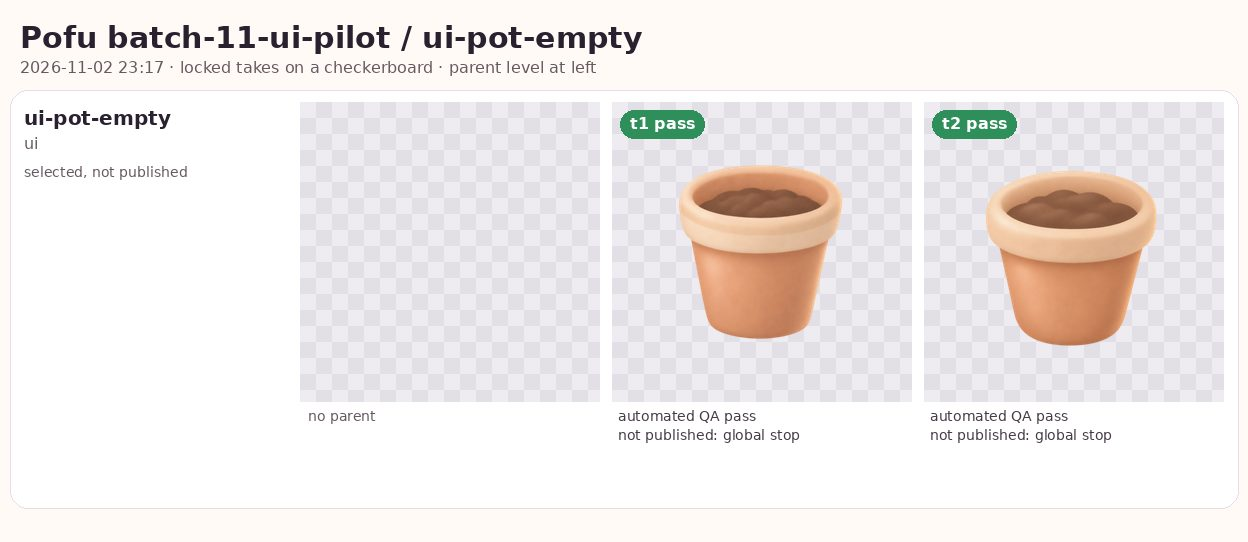
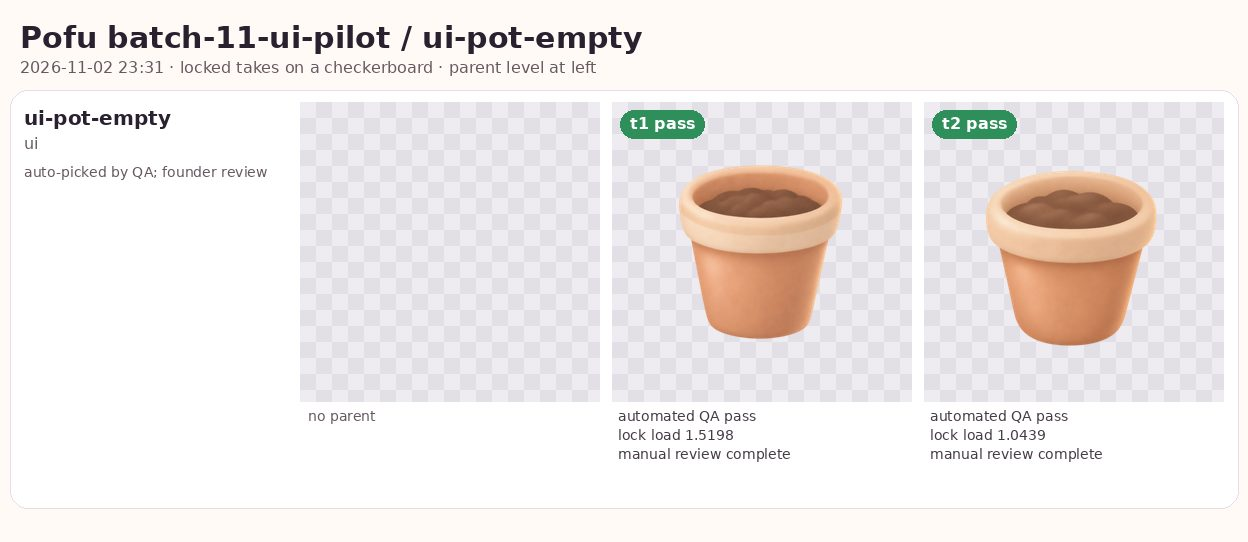
design(art): publish retained ui-pot-empty selection
Generated-With: OpenAI Codex

Changed region(s): [[0.75, 0.797, 0.9062, 0.8561], [0.5, 0.797, 0.6562, 0.8561], [0.0, 0.2952, 0.2188, 0.3247]]

diff --git a/design/art/ui/ui-pot-empty/provenance.md b/design/art/ui/ui-pot-empty/provenance.md
@@ -1,0 +1,71 @@
+# ui__pot-empty
+
+- **Approved:** 2026-11-02T23:30:46+00:00 from batch `batch-11-ui-pilot`, job `ui-pot-empty`, take t2
+  of 2 considered.
+- **Generating account:** Founder's uncle's ChatGPT plan, used by the founder with permission
+  (chatgpt-plan).
+- **Tool:** codex-cloud;
+  generated 2026-11-02T23:14:29+00:00.
+- **Post-processing (human-authored, documented per art bible section 13):**
+  canvas fit, style lock preset `lock-light` (style_lock.json v2).
+- **Files:** `raw.webp` is the take as generated (webp lossless), kept so the look can be re-locked; `ui-pot-empty.png` is the locked master the app and later edits use.
+- **Review note:** auto-picked by QA; founder review pending. Retained take2 reviewed on cream and dark backgrounds at36x56pt: simple empty soil-filled pot and cream rim remain legible.
+
+## References
+
+- `design/art/stations/cay-1/cay-1.png`: Style reference for objects: how a prop is painted in this world.
+- `design/reference/palette-card-world-props.png`: The palette card for props.
+
+## Prompt (fingerprint fc4e26f772b28c76)
+
+```text
+REFERENCES (attached, in this order):
+1. Style reference for objects: how a prop is painted in this world.
+2. The palette card for props.
+
+A small terracotta flower pot with a slightly flared rim, filled
+with dark soft-brown soil, nothing growing in it, front view at a
+slight angle from above. Chunky and simple, in soft muted
+terracotta with a cream rim band. Tall enough to leave room above
+it for a plant.
+
+UI OBJECT: a painted object that the app places under or inside native
+iOS glass controls. Never paint glass, frosted panels, buttons, frames,
+progress bars or any interface chrome: the app draws all glass and all
+controls natively. The object is centered with a generous transparent
+margin of about 10% on every side.
+
+STYLE: soft painterly 2D illustration from the same picture book as the
+attached hamster: the same gentle airbrushed shading, the same light,
+high-key values and the same milky pastel colors. Simple, rounded, chunky
+shapes with few parts; fewer, larger shapes, because this is seen small on
+a phone. Every material is painted matte, as a soft form with broad,
+smooth value changes: wood without grain, metal without hammering or
+reflections, glass as a soft tinted shape, cloth without weave. At most
+one small, soft highlight per object; no glints, no shine. Colors are
+muted and lifted toward cream; the darkest shadow is a warm mid-brown,
+never near black. Warm diffused key light from the upper left, a faint
+warm rim light along the right edge, soft ambient shadow only where forms
+touch. Clean, calm, uncluttered. No outlines, no hard edges. No text, no
+letters, no numbers, no logos, no watermark, no border, no frame, no
+sticker outline.
+
+AVOID: glossy or metallic shine, specular glints, reflections, hammered
+or dimpled metal, wood grain, fine surface texture, photorealism, a 3D
+render look, plastic or vinyl, high contrast, black or near-black
+shadows, saturated or neon colors, outlines, cel shading, text, letters,
+numbers, logos, watermarks, characters or animals, a floor, a background,
+a ground shadow.
+
+Output: one image, transparent background PNG, square 1024 x 1024.
+```
+
+## QA at approval
+
+- pass: transparency (source has an alpha channel)
+- pass: canvas (1254x1254 scaled x0.817 into 1024x1024)
+- pass: chroma_ceiling (chroma p95 40 (R1 51))
+- pass: value_floor (lightness p5 43 (R1 59))
+- pass: detail_budget (detail at display size 1.0 (R1 5.3))
+- pass: lock_load (the lock moved colors by mean dE 1.0)
+- pass: palette_drift (mean dE 0.9, p95 1.7, off-palette 0.0%)
